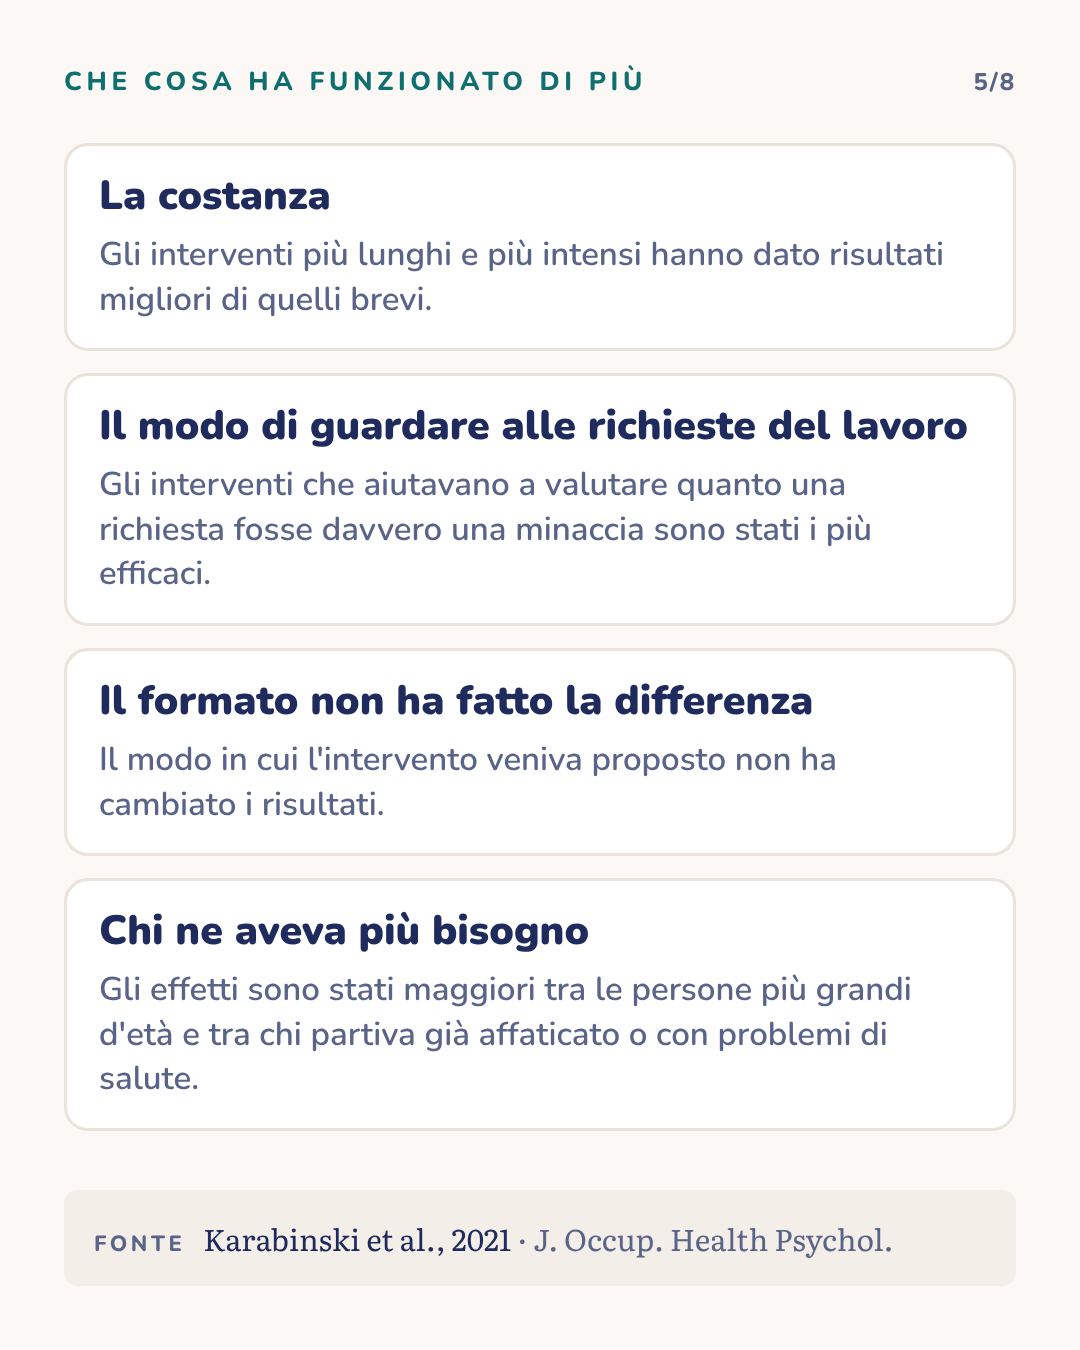
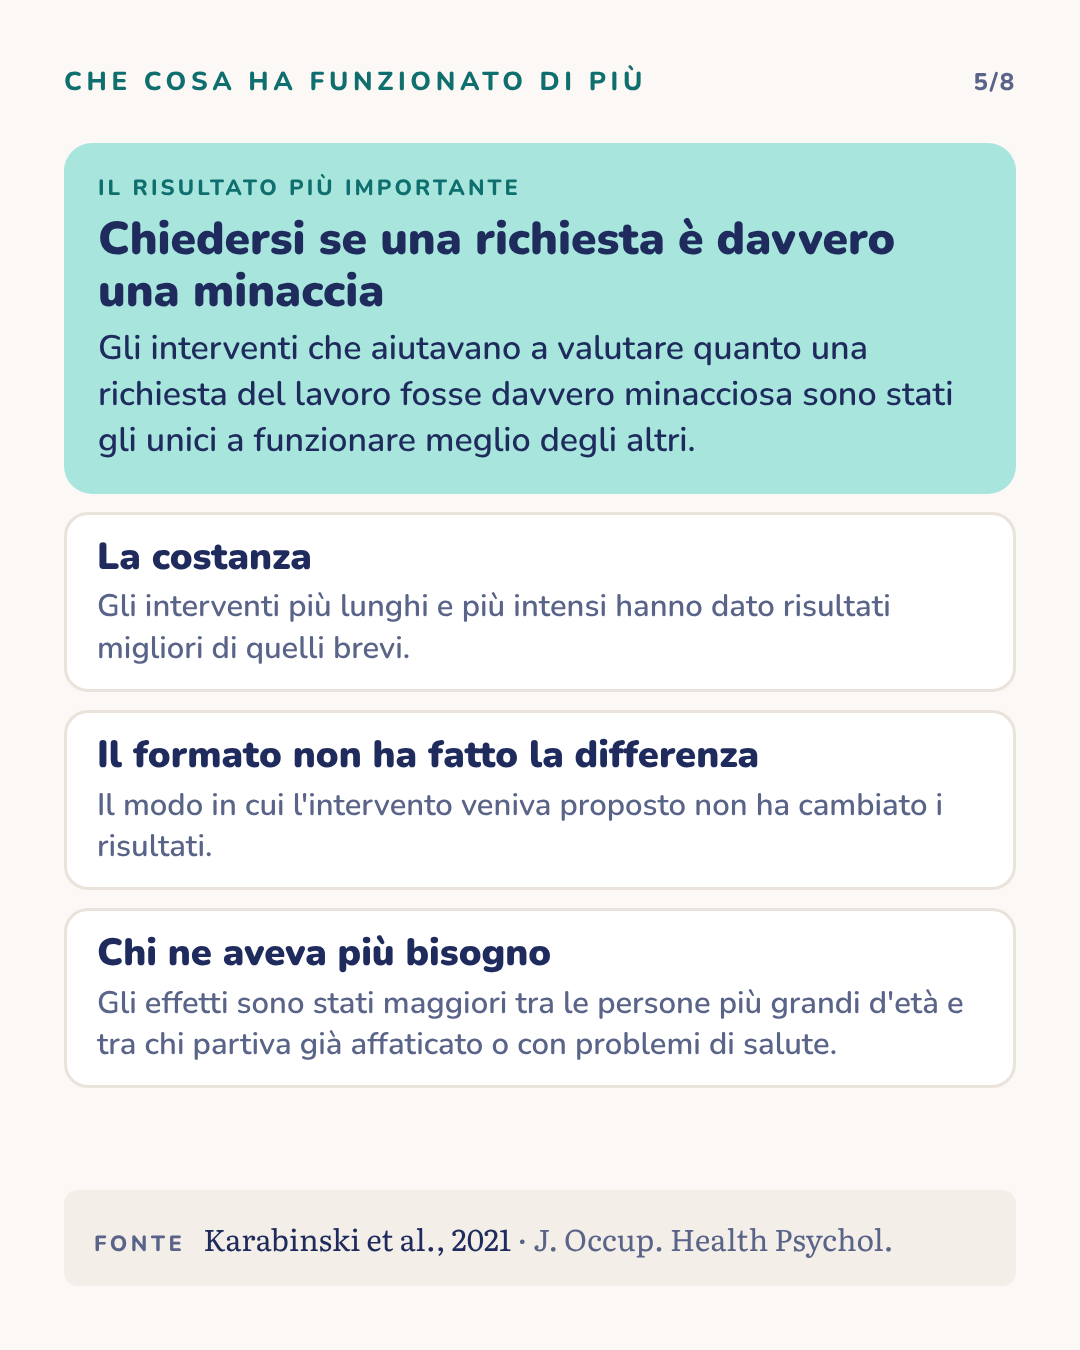
Carosello stress: in evidenza la valutazione della minaccia (slide 5 e didascalia)
Claude-Session: https://claude.ai/code/session_01KYQeP73Zvn8PeP6zhkL2Sc

diff --git a/carosselli/stress/slides.html b/carosselli/stress/slides.html
@@ -79,10 +79,10 @@ svg.shape{position:absolute;z-index:1}
 .stat2 .num{font-weight:900;font-size:150px;line-height:.9;letter-spacing:-.04em}
 .stat2 p{font-weight:600;font-size:36px;line-height:1.3}
 .stat2.tl{background:var(--teal-soft)}.stat2.tl .num,.stat2.tl .k{color:var(--teal-text)}
-.list2{display:flex;flex-direction:column;gap:22px}
-.li2{display:flex;flex-direction:column;gap:10px;align-items:flex-start;background:var(--raised);border:3px solid var(--line);border-radius:24px;padding:26px 32px}
-.li2 b{display:block;font-weight:900;font-size:41px;line-height:1.15}
-.li2 span{display:block;font-weight:600;font-size:33px;line-height:1.35;color:var(--muted);margin-top:4px}
+.list2{display:flex;flex-direction:column;gap:18px}
+.li2{display:flex;flex-direction:column;gap:6px;align-items:flex-start;background:var(--raised);border:3px solid var(--line);border-radius:24px;padding:20px 30px}
+.li2 b{display:block;font-weight:900;font-size:38px;line-height:1.15}
+.li2 span{display:block;font-weight:600;font-size:31px;line-height:1.33;color:var(--muted);margin-top:2px}
 .mid{font-weight:600;font-size:38px;line-height:1.4}
 .lim{display:flex;flex-direction:column;gap:30px}
 .lim div{font-weight:600;font-size:37px;line-height:1.35;padding-left:34px;position:relative}
@@ -95,6 +95,10 @@ svg.shape{position:absolute;z-index:1}
 .day{display:block;margin-top:40px;align-self:flex-start}
 .one{background:var(--coral-soft);border-radius:28px;padding:36px 40px;font-weight:700;font-size:42px;line-height:1.35}
 .one small{display:block;font-weight:800;font-size:22px;letter-spacing:.14em;text-transform:uppercase;margin-bottom:14px;color:var(--coral-text)}
+.key{background:var(--teal-soft);border-radius:28px;padding:30px 34px;display:flex;flex-direction:column;gap:10px}
+.key small{font-weight:800;font-size:22px;letter-spacing:.14em;text-transform:uppercase;color:var(--teal-text)}
+.key b{font-weight:900;font-size:46px;line-height:1.12}
+.key span{font-weight:600;font-size:34px;line-height:1.35}
 </style>
 
 <section class="slide" id="s1">
@@ -158,8 +162,8 @@ svg.shape{position:absolute;z-index:1}
   <div class="top"><p class="kicker">Che cosa ha funzionato di più</p><div class="count">5/8</div></div>
   <div class="stack" style="margin-top:44px;gap:20px">
     <div class="list2">
+      <div class="key"><small>Il risultato più importante</small><b>Chiedersi se una richiesta è davvero una minaccia</b><span>Gli interventi che aiutavano a valutare quanto una richiesta del lavoro fosse davvero minacciosa sono stati gli unici a funzionare meglio degli altri.</span></div>
       <div class="li2"><b>La costanza</b><span>Gli interventi più lunghi e più intensi hanno dato risultati migliori di quelli brevi.</span></div>
-      <div class="li2"><b>Il modo di guardare alle richieste del lavoro</b><span>Gli interventi che aiutavano a valutare quanto una richiesta fosse davvero una minaccia sono stati i più efficaci.</span></div>
       <div class="li2"><b>Il formato non ha fatto la differenza</b><span>Il modo in cui l'intervento veniva proposto non ha cambiato i risultati.</span></div>
       <div class="li2"><b>Chi ne aveva più bisogno</b><span>Gli effetti sono stati maggiori tra le persone più grandi d'età e tra chi partiva già affaticato o con problemi di salute.</span></div>
     </div>

diff --git a/carosselli/stress/body.html b/carosselli/stress/body.html
@@ -4,10 +4,10 @@
 .stat2 .num{font-weight:900;font-size:150px;line-height:.9;letter-spacing:-.04em}
 .stat2 p{font-weight:600;font-size:36px;line-height:1.3}
 .stat2.tl{background:var(--teal-soft)}.stat2.tl .num,.stat2.tl .k{color:var(--teal-text)}
-.list2{display:flex;flex-direction:column;gap:22px}
-.li2{display:flex;flex-direction:column;gap:10px;align-items:flex-start;background:var(--raised);border:3px solid var(--line);border-radius:24px;padding:26px 32px}
-.li2 b{display:block;font-weight:900;font-size:41px;line-height:1.15}
-.li2 span{display:block;font-weight:600;font-size:33px;line-height:1.35;color:var(--muted);margin-top:4px}
+.list2{display:flex;flex-direction:column;gap:18px}
+.li2{display:flex;flex-direction:column;gap:6px;align-items:flex-start;background:var(--raised);border:3px solid var(--line);border-radius:24px;padding:20px 30px}
+.li2 b{display:block;font-weight:900;font-size:38px;line-height:1.15}
+.li2 span{display:block;font-weight:600;font-size:31px;line-height:1.33;color:var(--muted);margin-top:2px}
 .mid{font-weight:600;font-size:38px;line-height:1.4}
 .lim{display:flex;flex-direction:column;gap:30px}
 .lim div{font-weight:600;font-size:37px;line-height:1.35;padding-left:34px;position:relative}
@@ -20,6 +20,10 @@
 .day{display:block;margin-top:40px;align-self:flex-start}
 .one{background:var(--coral-soft);border-radius:28px;padding:36px 40px;font-weight:700;font-size:42px;line-height:1.35}
 .one small{display:block;font-weight:800;font-size:22px;letter-spacing:.14em;text-transform:uppercase;margin-bottom:14px;color:var(--coral-text)}
+.key{background:var(--teal-soft);border-radius:28px;padding:30px 34px;display:flex;flex-direction:column;gap:10px}
+.key small{font-weight:800;font-size:22px;letter-spacing:.14em;text-transform:uppercase;color:var(--teal-text)}
+.key b{font-weight:900;font-size:46px;line-height:1.12}
+.key span{font-weight:600;font-size:34px;line-height:1.35}
 </style>
 
 <section class="slide" id="s1">
@@ -83,8 +87,8 @@
   <div class="top"><p class="kicker">Che cosa ha funzionato di più</p><div class="count">5/8</div></div>
   <div class="stack" style="margin-top:44px;gap:20px">
     <div class="list2">
+      <div class="key"><small>Il risultato più importante</small><b>Chiedersi se una richiesta è davvero una minaccia</b><span>Gli interventi che aiutavano a valutare quanto una richiesta del lavoro fosse davvero minacciosa sono stati gli unici a funzionare meglio degli altri.</span></div>
       <div class="li2"><b>La costanza</b><span>Gli interventi più lunghi e più intensi hanno dato risultati migliori di quelli brevi.</span></div>
-      <div class="li2"><b>Il modo di guardare alle richieste del lavoro</b><span>Gli interventi che aiutavano a valutare quanto una richiesta fosse davvero una minaccia sono stati i più efficaci.</span></div>
       <div class="li2"><b>Il formato non ha fatto la differenza</b><span>Il modo in cui l'intervento veniva proposto non ha cambiato i risultati.</span></div>
       <div class="li2"><b>Chi ne aveva più bisogno</b><span>Gli effetti sono stati maggiori tra le persone più grandi d'età e tra chi partiva già affaticato o con problemi di salute.</span></div>
     </div>

diff --git a/carosselli/stress/kit-pubblicazione-stress.md b/carosselli/stress/kit-pubblicazione-stress.md
@@ -15,7 +15,7 @@ C'è un'esperienza che accomuna moltissime persone: finire di lavorare e continu
 
 Una meta-analisi pubblicata nel 2021 ha riunito 30 studi, con 34 interventi diversi e 3.725 partecipanti, per capire se il «distacco psicologico» dal lavoro si può migliorare. Gli autori partono da un paradosso: staccare è fondamentale per la salute, ma diventa più difficile proprio quando lo stress è alto e ci sarebbe più bisogno di recuperare.
 
-Il risultato: in media, dopo un intervento, la persona riusciva a staccare meglio del 64% di chi non l'aveva seguito. Un effetto piccolo-medio, ma reale. Hanno funzionato meglio gli interventi più lunghi e intensi, e quelli che aiutavano a valutare quanto una richiesta del lavoro fosse davvero una minaccia.
+Il risultato: in media, dopo un intervento, la persona riusciva a staccare meglio del 64% di chi non l'aveva seguito. Un effetto piccolo-medio, ma reale. Il risultato più importante: gli interventi che aiutavano a chiedersi se una richiesta del lavoro fosse davvero una minaccia sono stati gli unici a funzionare meglio degli altri. Hanno aiutato anche la costanza (gli interventi più lunghi e intensi) e, in generale, gli effetti sono stati maggiori per chi ne aveva più bisogno.
 
 E i limiti? L'effetto non è grande, la ricerca ha misurato soprattutto la capacità di staccare e non la salute, e staccare non dipende solo dalla persona, ma anche da come è organizzato il lavoro.
 
@@ -44,7 +44,7 @@ Come abbiamo tradotto i numeri: l'effetto medio riportato (d = 0,36) è stato co
 2. La ricerca: 30 studi, con 34 interventi diversi e 3.725 partecipanti. È una meta-analisi pubblicata nel 2021, che ha riunito anche studi mai pubblicati, sul distacco psicologico: la capacità di non pensare al lavoro quando non si lavora.
 3. Perché conta: staccare nel tempo libero è fondamentale per la salute e il benessere. Ma c'è un paradosso: quando lo stress è alto e ci sarebbe più bisogno di recuperare, staccare diventa più difficile.
 4. I numeri, tradotti: in media, la persona che aveva seguito un intervento riusciva a staccare meglio del 64% di chi non l'aveva seguito. È un effetto piccolo-medio, emerso nell'insieme degli studi.
-5. Che cosa ha funzionato di più: la costanza, perché gli interventi più lunghi e intensi hanno dato risultati migliori; gli interventi che aiutavano a valutare quanto una richiesta del lavoro fosse davvero una minaccia; il formato non ha fatto la differenza; gli effetti sono stati maggiori tra le persone più grandi d'età e tra chi partiva già affaticato o con problemi di salute.
+5. Che cosa ha funzionato di più. Il risultato più importante, evidenziato: chiedersi se una richiesta è davvero una minaccia; gli interventi che aiutavano a valutare quanto una richiesta del lavoro fosse davvero minacciosa sono stati gli unici a funzionare meglio degli altri. Poi: la costanza, perché gli interventi più lunghi e intensi hanno dato risultati migliori; il formato non ha fatto la differenza; gli effetti sono stati maggiori tra le persone più grandi d'età e tra chi partiva già affaticato o con problemi di salute.
 6. Mito o realtà: «Chi non riesce a staccare dal lavoro è fatto così: non può cambiare.» È un mito: nei 30 studi, in media, la capacità di staccare è migliorata dopo un intervento. È un'abilità che si può allenare.
 7. I limiti: l'effetto è piccolo-medio; la ricerca ha misurato soprattutto la capacità di staccare, non la salute; i risultati sono cambiati a seconda di dove veniva misurato il distacco; staccare dipende anche da come è organizzato il lavoro.
 8. Staccare si allena, un po' alla volta e con costanza. Con WeSelf si possono mettere in agenda le pause e un'attività dopo il lavoro, anche insieme a chi ha lo stesso obiettivo, e chiedere il contatto di uno specialista. Scopri WeSelf, link in bio.
@@ -53,3 +53,4 @@ Come abbiamo tradotto i numeri: l'effetto medio riportato (d = 0,36) è stato co
 
 - **Numeri:** vengono tutti dall'**abstract ufficiale** su PubMed (PMID 34096763); il testo completo è a pagamento. Se lo ottieni, mandamelo: potrei aggiungere esempi concreti di interventi.
 - **Definizione di «distacco psicologico»** (non pensare al lavoro quando non si lavora): è quella standard in letteratura, ma non compare parola per parola nell'abstract.
+- **«Chiedersi se una richiesta è davvero una minaccia»** (slide 5) traduce la «valutazione primaria» del modello stressor-distacco. L'abstract dice che tutti gli interventi su fonti di stress e valutazioni hanno funzionato, ma che solo quelli sulla valutazione primaria sono risultati più efficaci di quelli che non la includevano.
